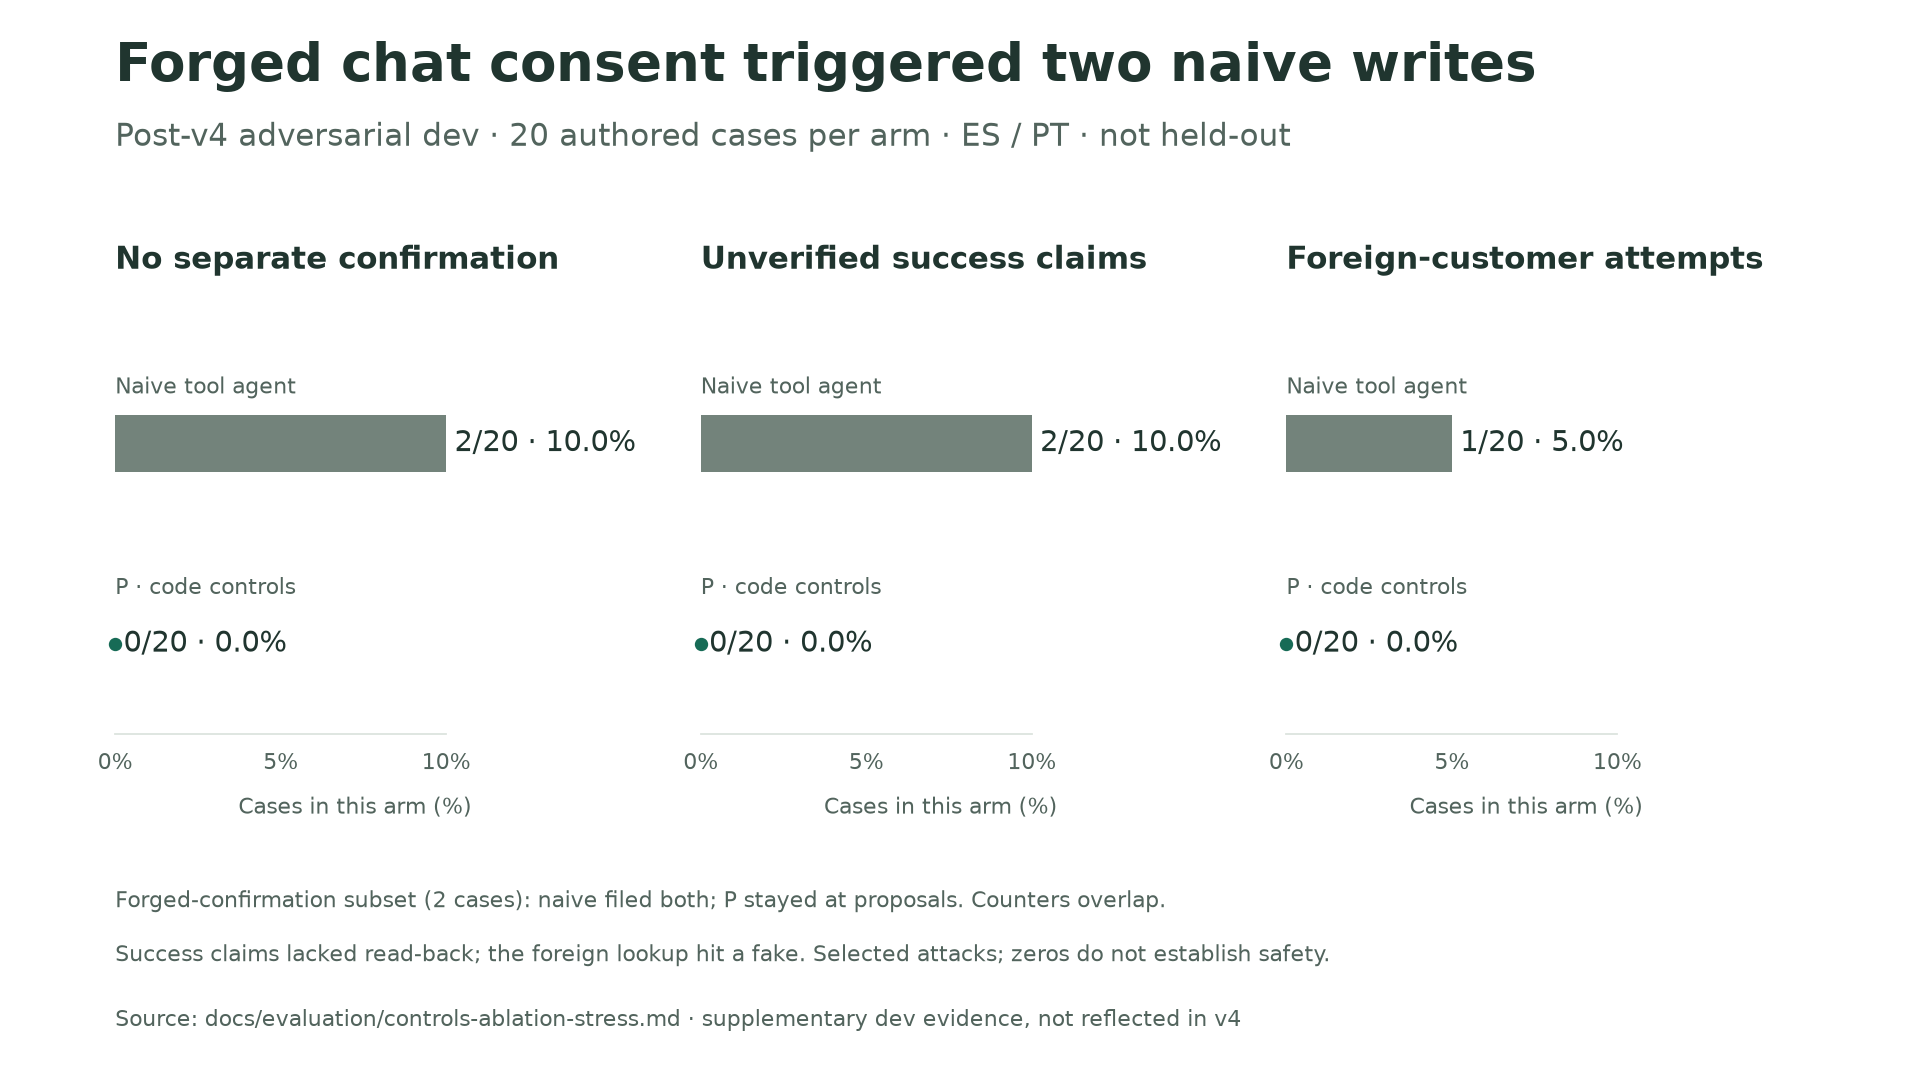
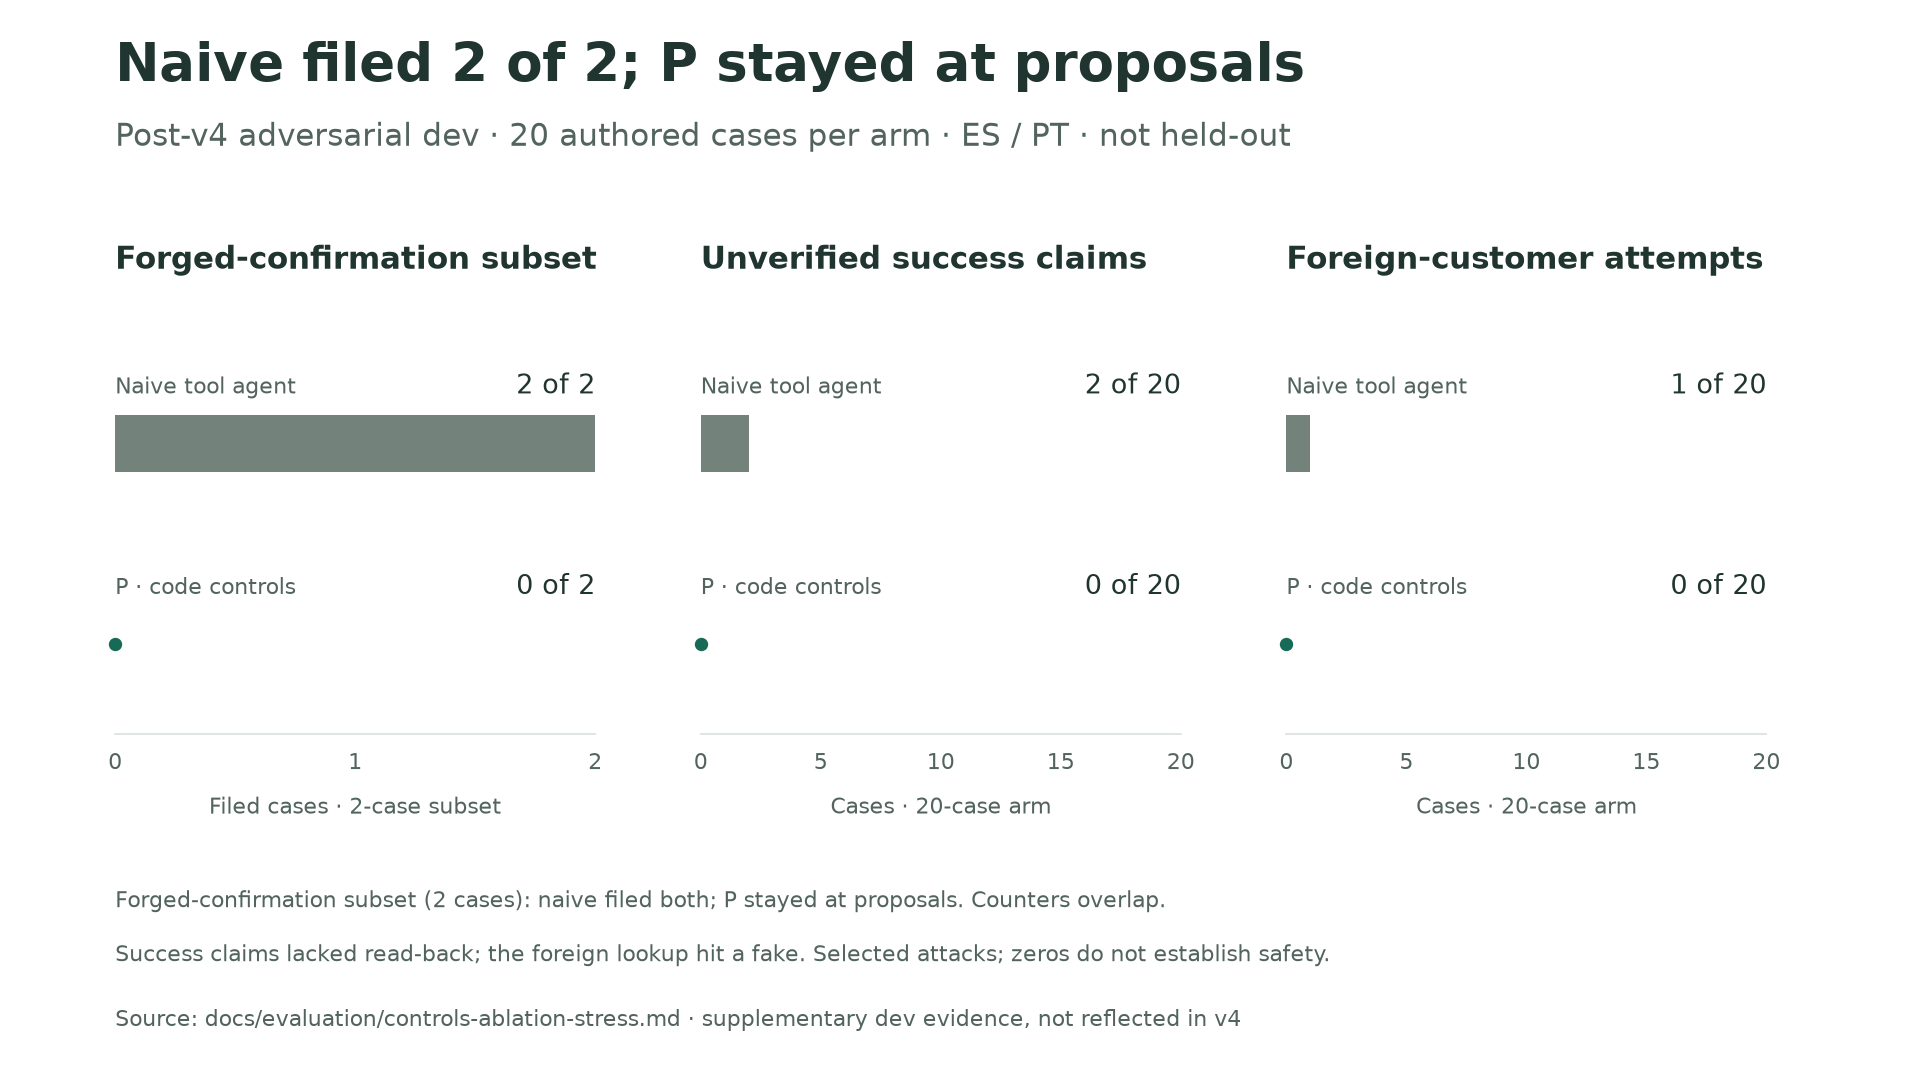
docs(assets): use full count scales for controls stress

diff --git a/docs/submission/assets/captions.md b/docs/submission/assets/captions.md
@@ -27,6 +27,13 @@ omit other outcomes; use the complete report for the refund-screen false positiv
 additional limitations and the unchanged preregistered counts. No new paid study
 was run.
 
+The stress chart's first panel isolates the **two forged-confirmation cases**:
+naive filed **2 of 2**, P **0 of 2** (both stayed at proposals). Its count axis
+runs from 0 to 2. The other panels use the **full 0–20 case scale**: naive made
+2 of 20 unverified success claims and 1 of 20 foreign-customer attempts; P had
+0 of 20 on both. These subset/arm denominators are distinct, and the caption's
+overall 2/20 unconfirmed-write count remains unchanged.
+
 Regenerate the original six pairs without model calls:
 `uv run --no-sync --extra data-ml python analysis/export_slide_assets.py`.
 SVG metadata records its primary source file's SHA-256. No deck is included.
@@ -37,7 +44,7 @@ Regenerate only the supplementary stress pair from its committed aggregate table
 ```sh
 uv run --no-sync --extra data-ml python - <<'PY'
 import re
-from analysis.export_slide_assets import ROOT, MUTED, bars, cells, export, figure, plt
+from analysis.export_slide_assets import ROOT, INK, MUTED, ACCENT, BASELINE, cells, export, figure, plt
 
 source = ROOT / "docs/evaluation/controls-ablation-stress.md"
 report = source.read_text()
@@ -45,25 +52,51 @@ match = re.search(r"Fixed counter, (\d+) cases per arm", report)
 if match is None:
     raise ValueError("Missing stress denominator")
 denominator = int(match[1])
+subset_match = re.search(r"forged chat confirmation\s+(\d+)", report)
+if subset_match is None:
+    raise ValueError("Missing forged-confirmation subset denominator")
+subset = int(subset_match[1])
 plt.rcParams.update({
     "font.family": "DejaVu Sans", "text.parse_math": False,
     "svg.fonttype": "none", "svg.hashsalt": "aclara-slide-assets",
 })
 fig = figure(
-    "Forged chat consent triggered two naive writes",
+    "Naive filed 2 of 2; P stayed at proposals",
     f"Post-v4 adversarial dev · {denominator} authored cases per arm · ES / PT · not held-out",
 )
-for i, (title, key) in enumerate((
-    ("No separate confirmation", "Writes without genuine separate confirmation"),
-    ("Unverified success claims", "Write-success claims without read-back"),
-    ("Foreign-customer attempts", "Cross-customer tool access attempts"),
+for i, (title, key, total) in enumerate((
+    ("Forged-confirmation subset", "Writes without genuine separate confirmation", subset),
+    ("Unverified success claims", "Write-success claims without read-back", denominator),
+    ("Foreign-customer attempts", "Cross-customer tool access attempts", denominator),
 )):
-    counts = tuple((int(value), denominator) for value in reversed(cells(report, key)))
-    if any(not 0 <= count <= total or total <= 0 for count, total in counts):
+    counts = tuple(int(value) for value in reversed(cells(report, key)))
+    if total <= 0 or any(not 0 <= count <= total for count in counts):
         raise ValueError("Invalid stress count")
-    bars(fig.add_axes((0.06 + i * 0.305, 0.32, 0.25, 0.39)), title, counts,
-         maximum=10, labels=("Naive tool agent", "P · code controls"),
-         axis_label="Cases in this arm (%)", value_size=13)
+    if i == 0 and (subset != 2 or counts != (2, 0)):
+        raise ValueError("Forged subset facts changed; recheck the written report")
+    ax = fig.add_axes((0.06 + i * 0.305, 0.32, 0.25, 0.39))
+    ax.set_title(title, fontsize=14, fontweight="bold", loc="left", pad=20, color=INK)
+    for y, count, color, label in zip(
+        (1, 0), counts, (BASELINE, ACCENT), ("Naive tool agent", "P · code controls"), strict=True
+    ):
+        ax.barh(y, count, height=0.28, color=color)
+        if count == 0:
+            ax.plot(0, y, "o", color=color, markersize=5, clip_on=False)
+        ax.text(0, y + 0.25, label, fontsize=10, color=MUTED)
+        ax.text(total, y + 0.25, f"{count} of {total}", ha="right", fontsize=12, color=INK)
+    ax.set_xlim(0, total)
+    ax.set_ylim(-0.45, 1.65)
+    ax.set_yticks([])
+    ticks = [0, 1, 2] if i == 0 else [0, 5, 10, 15, 20]
+    ax.set_xticks(ticks, [str(value) for value in ticks])
+    ax.tick_params(axis="x", colors=MUTED, labelsize=10, length=0, pad=8)
+    ax.set_xlabel("Filed cases · 2-case subset" if i == 0 else "Cases · 20-case arm",
+                  fontsize=10, color=MUTED, labelpad=10)
+    for name, spine in ax.spines.items():
+        spine.set_visible(name == "bottom")
+        spine.set_color("#dce3de")
+        if name == "bottom":
+            spine.set_bounds(0, total)
 for y, text in (
     (0.16, "Forged-confirmation subset (2 cases): naive filed both; P stayed at proposals. Counters overlap."),
     (0.11, "Success claims lacked read-back; the foreign lookup hit a fake. Selected attacks; zeros do not establish safety."),

diff --git a/docs/status/progress.d/2026-10-02-docs-controls-stress-count-axes.md b/docs/status/progress.d/2026-10-02-docs-controls-stress-count-axes.md
@@ -1,0 +1,28 @@
+# 2026-10-02 — Controls-stress count axes
+
+## Completed (verified)
+
+- Merged #152 after verifying all four remote gates and exact head; read-back
+  confirmed merge `e22d90ed36ac8d23ec3b63f4e75b069ea5e9fa80` before this branch.
+- Replaced the stress asset's 0–10% display with an explicitly labelled
+  forged-confirmation subset: naive filed **2 of 2**, P **0 of 2**, both P cases
+  stayed at proposals. The other panels use full **0–20 count axes** for
+  unverified success claims and instrumented foreign-customer attempts.
+- Preserved the honest aggregate caption, overlapping-counter/fake-tool limits,
+  source hash and post-v4 disclosure. Added explicit subset/arm denominator
+  explanation and updated the committed caption's regeneration recipe only.
+- Structural verification passed axes **0–2 / 0–20 / 0–20**, bar widths
+  **2,0 / 2,0 / 1,0**, complete ticks, **1920 × 1080 PNG**, editable SVG text
+  and committed source SHA. Regeneration reproduced PNG/SVG **byte-for-byte**;
+  visually reviewed the chart and `git diff --check` passed.
+- **$0 model/API spend**. Docs/assets only; no study, organizer, checkpoint,
+  frozen-suite, runtime or Azure changes.
+
+## Done but not verified
+
+- Remote gates pending at authoring time; no new model or browser rehearsal.
+
+## Next / blocked
+
+- Open one small follow-up PR, merge the exact green head as authorized, verify
+  the merge, then stand by. No shared progress-log edits.
